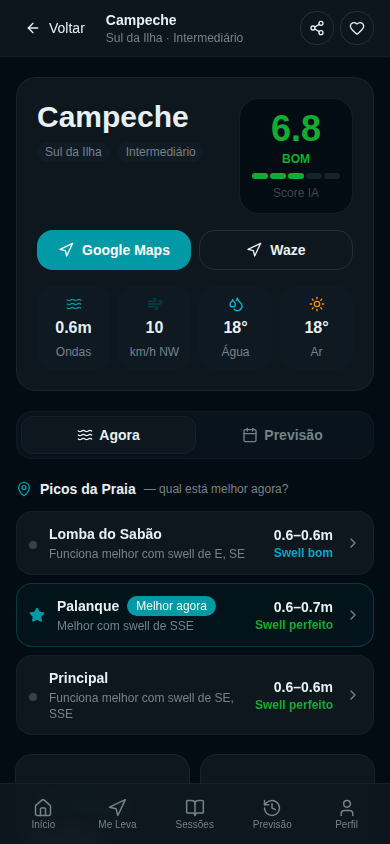
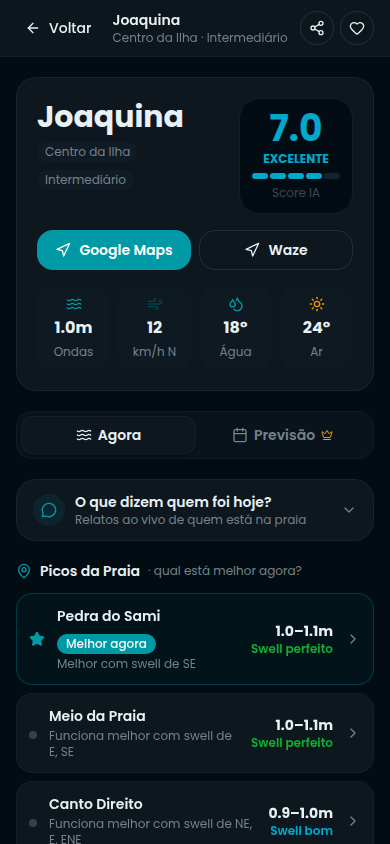
fix: corrige crop/distorção dos prints do celular na landing
O aspect-ratio 390/844 estava na moldura externa do celular (que soma
borda+padding), então a área interna real tinha proporção levemente diferente
da imagem e o crop manual (top/height) desalinhava o conteúdo. Move o
aspect-ratio pra área interna, tanto na versão mobile empilhada quanto no
PhoneFrame do desktop. score.png recortado de novo pra bater com o fix.

diff --git a/src/components/landing/AppScrollShowcase.tsx b/src/components/landing/AppScrollShowcase.tsx
@@ -28,7 +28,7 @@ const STEPS = [
     image: navigateImg,
     icon: Navigation,
     title: 'Me leva ao pico',
-    desc: 'Um toque e o app já abre o caminho — Google Maps ou Waze, direto pro pico com a melhor condição agora.',
+    desc: 'Um toque e o app já abre o caminho: Google Maps ou Waze, direto pro pico com a melhor condição agora.',
   },
 ]
 
@@ -61,15 +61,19 @@ export function AppScrollShowcase() {
       <div className="flex flex-col gap-14 sm:hidden">
         {STEPS.map((step) => (
           <div key={step.title} className="flex flex-col items-center gap-5 text-center">
-            <div className="relative mx-auto aspect-[390/844] w-full max-w-[280px] rounded-[36px] border-[5px] p-1.5"
+            <div className="relative mx-auto w-full max-w-[280px] rounded-[36px] border-[5px] p-1.5"
               style={{
                 borderColor: '#2c2c2c',
                 background: '#0d0d0d',
                 boxShadow: '0 24px 60px oklch(0 0 0 / 0.45), 0 0 0 1px oklch(1 0 0 / 0.06), 0 0 60px oklch(0.6 0.16 200 / 0.1)',
               }}>
               <div className="absolute left-1/2 top-2 z-20 h-4 w-14 -translate-x-1/2 rounded-full bg-black" />
-              <div className="relative h-full w-full overflow-hidden rounded-[30px]" style={{ background: '#0d0d0d' }}>
-                <img src={step.image} alt={step.title} className="absolute left-0 w-full object-cover" style={{ top: '4%', height: '106%' }} />
+              {/* aspect-ratio aqui (não na moldura externa) pra bater exatamente com os
+                  prints 390×844 — antes a proporção ficava na moldura, que soma borda+padding,
+                  então a área interna real tinha uma proporção levemente diferente da imagem
+                  e o crop manual (top/height) desalinhava o conteúdo dentro do celular. */}
+              <div className="relative aspect-[390/844] w-full overflow-hidden rounded-[30px]" style={{ background: '#0d0d0d' }}>
+                <img src={step.image} alt={step.title} className="absolute inset-0 h-full w-full object-cover" />
               </div>
             </div>
             <div className="flex h-11 w-11 items-center justify-center rounded-xl"
@@ -138,21 +142,21 @@ export function AppScrollShowcase() {
 
 function PhoneFrame({ active }: { active: number }) {
   return (
-    <div className="relative mx-auto aspect-[390/844] w-full max-w-[240px] rounded-[28px] border-[4px] p-1 sm:rounded-[36px] sm:border-[5px] md:max-w-[280px] md:rounded-[44px] md:border-[6px] md:p-1.5"
+    <div className="relative mx-auto w-full max-w-[240px] rounded-[28px] border-[4px] p-1 sm:rounded-[36px] sm:border-[5px] md:max-w-[280px] md:rounded-[44px] md:border-[6px] md:p-1.5"
       style={{
         borderColor: '#2c2c2c',
         background: '#0d0d0d',
         boxShadow: '0 24px 60px oklch(0 0 0 / 0.45), 0 0 0 1px oklch(1 0 0 / 0.06), 0 0 80px oklch(0.6 0.16 200 / 0.08)',
       }}>
       <div className="absolute left-1/2 top-1.5 z-20 h-3 w-10 -translate-x-1/2 rounded-full bg-black sm:top-2 sm:h-4 sm:w-14 md:top-2.5 md:h-5 md:w-20" />
-      <div className="relative h-full w-full overflow-hidden rounded-[22px] sm:rounded-[30px] md:rounded-[36px]" style={{ background: '#0d0d0d' }}>
+      <div className="relative aspect-[390/844] w-full overflow-hidden rounded-[22px] sm:rounded-[30px] md:rounded-[36px]" style={{ background: '#0d0d0d' }}>
         {STEPS.map((step, i) => (
           <img
             key={step.title}
             src={step.image}
             alt={step.title}
-            className="absolute left-0 w-full object-cover transition-opacity duration-500"
-            style={{ opacity: active === i ? 1 : 0, top: '4%', height: '106%' }}
+            className="absolute inset-0 h-full w-full object-cover transition-opacity duration-500"
+            style={{ opacity: active === i ? 1 : 0 }}
           />
         ))}
       </div>
